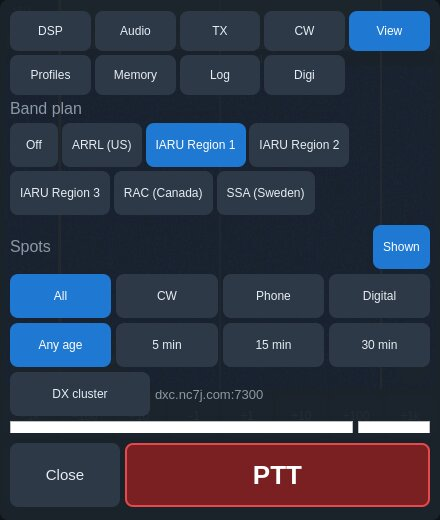
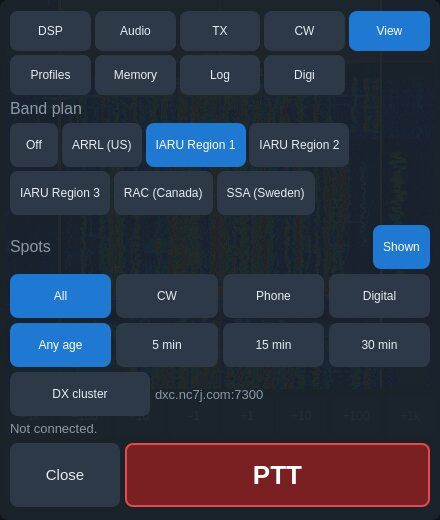
mobile: Android shows the beta's number in brackets; beta 27; View tab shot with the cluster line
The app showed the Android workflow's run number in brackets, so beta 26
read (39) on a tester's phone. The number shown is now the beta's
(release.env's TAG android-beta-N shows N); versionCode stays the run
number, which only grows, so a beta installs over any earlier APK.

Android beta 27 carries the display that keeps going while on screen but
inactive and the DX cluster status line. The View tab screenshot shows the
new line ("Not connected."), rendered against the FLEX.

Claude-Session: https://claude.ai/code/session_01KANojkzU64KoozGDbNDzRK

Changed region(s): [[0.0, 0.8, 0.975, 0.8308]]

diff --git a/mobile/android/RELEASE_NOTES.md b/mobile/android/RELEASE_NOTES.md
@@ -1,15 +1,16 @@
-**OksaSDR for Android — beta 26.** A FlexRadio client for Android phones and tablets, built on the [AetherSDR](https://github.com/aethersdr/AetherSDR) engine: the same app as on the iPhone and iPad (TestFlight build 109), from the same code.
+**OksaSDR for Android — beta 27.** A FlexRadio client for Android phones and tablets, built on the [AetherSDR](https://github.com/aethersdr/AetherSDR) engine: the same app as on the iPhone and iPad (TestFlight), from the same code.
 
-### New in beta 26
-- **A swipe inside the open controls drawer** no longer tunes the radio or moves the display under it; the part of the display still in view works as before. Thanks Wayne WA2N.
-- **PTT on a slice in DIGU / DIGL** says why it does not transmit (PTT is for voice; use USB / LSB, or the Digi tab for FT8 / FT4), and the radio's own reason for a refused transmit stays on screen. Thanks Charlie KB8CR.
+### New in beta 27
+- **The app shows its beta number:** the version in the top row, on the Connect page and in the log ends in (27) for beta 27, as the release is called (before, a build counter).
+- **DX cluster status:** a line under the DX cluster button (View tab) says whether it is connected, to which server and as whom, with the spots so far and the latest one's time.
+- **The display keeps going** while the app is on screen but not in focus (an unfocused split-screen or DeX window, a system prompt); it pauses only in the background.
 
-Still new from betas 14–25: three meters while transmitting (asked by Mike VA3MW); FT8 and FT4 in the app (Controls › Digi) on every DIGU slice with WSJT-X colours, Keep CQ, Last TX and Free, PSK Reporter; Wavelog / Cloudlog; transverter setup; RADE digital voice; the log in Files › Documents › OksaSDR.
+Still new from betas 14–26: a swipe in the open controls drawer no longer tunes, PTT in DIGU / DIGL says why it does not transmit, three meters while transmitting (asked by Mike VA3MW); FT8 and FT4 in the app (Controls › Digi) on every DIGU slice with WSJT-X colours, Keep CQ, Last TX and Free, PSK Reporter; Wavelog / Cloudlog; transverter setup; RADE digital voice; the log in Files › Documents › OksaSDR.
 
 ### Install or update
-1. Download `OksaSDR-android-beta26.apk` below on the phone (about 150 MB).
+1. Download `OksaSDR-android-beta27.apk` below on the phone (about 150 MB).
 2. Open it; allow installing from your browser or file manager when Android asks. If Chrome keeps the download waiting, open ⋮ → *Downloads* → *Keep*.
-3. Beta 26 installs over earlier betas and keeps your settings. If you have one of the earlier hand-delivered test APKs, uninstall it first (different signing key).
+3. Beta 27 installs over earlier betas and keeps your settings. If you have one of the earlier hand-delivered test APKs, uninstall it first (different signing key).
 
 Android 9 or newer, 64-bit ARM. On the first connect, allow notifications, the microphone and "no battery optimization" so receive keeps going in the background and PTT can transmit.
 

diff --git a/mobile/ROADMAP.md b/mobile/ROADMAP.md
@@ -54,6 +54,7 @@ iOS background).
 
 **Next build** (not yet pushed):
 - The display (spectrum, waterfall, 3D) paused whenever the app was not Active; iOS reports Inactive while the app is still on screen (a system prompt, Control Center), and a tester's iPhone Duo (build 111, iOS 27.2) stayed Inactive for three minutes while in use, its display frozen. It now pauses only when the app is suspended (in the background); every app state change is in the log. Transmit still stops on Inactive.
+- Android shows the beta's number in brackets (release.env's TAG android-beta-N shows N; the tester saw (39) for beta 26, a run counter, and the compile check's run at that). versionCode stays the workflow's run number, which only grows.
 - DX cluster status line (View tab), as the logbook's and PSK Reporter's: connected to which server as whom, the spots so far and the latest one's time (UTC), connecting, or the reason it failed (its own property and signal, so arriving spots do not refresh the server fields being edited).
 
 **Build 111** (2026-10-25), iPhone and iPad (Mac only), Android unchanged (run 110 was the unsigned compile check on mobile/ci-check, never on TestFlight):

diff --git a/docs/mobile/TESTING.md b/docs/mobile/TESTING.md
@@ -99,7 +99,9 @@ The Android beta needs no invitation: download it and install it.
    and PTT can transmit (see the [manual](MANUAL.md#13-android)).
 
 You need Android 9 or newer on a 64-bit ARM phone or tablet. A newer beta
-installs over the old one. Report problems the same way as on the iPhone
+installs over the old one. The number in brackets after the version in the
+app's top row is the beta's: (27) for beta 27 (on the iPhone and iPad it is
+the TestFlight build). Report problems the same way as on the iPhone
 (*Log → Share* or *Copy*), and say "Android", your phone model and Android
 version. An email to oh6oksa@gmail.com with what you would like to test is
 welcome, but not needed to start.
